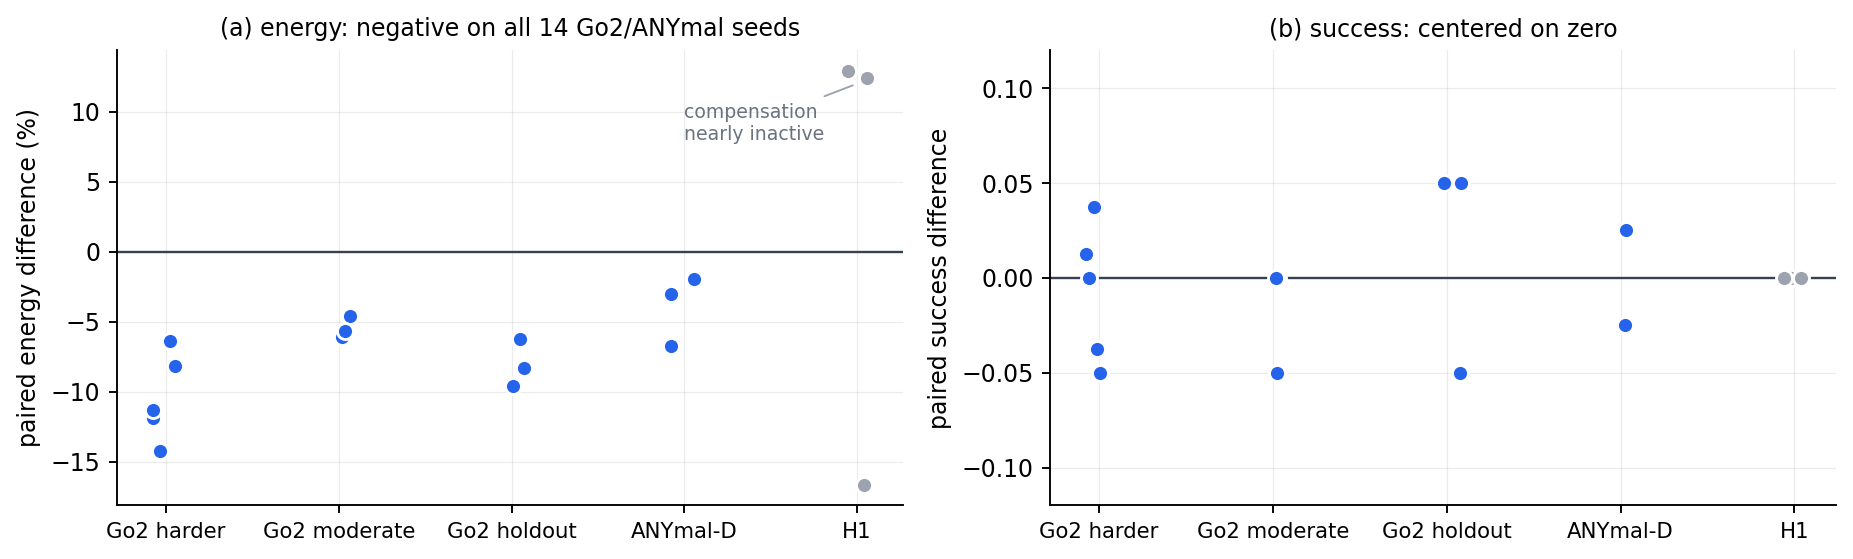
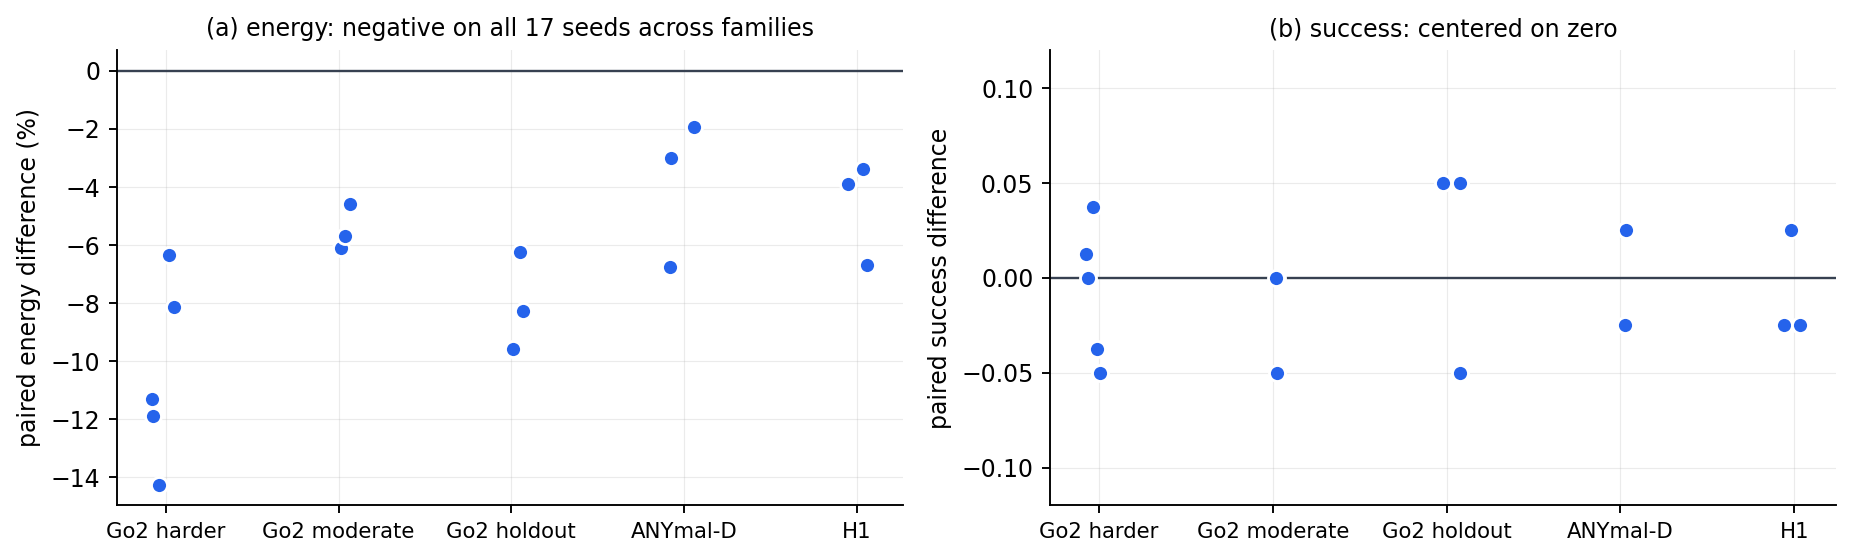
Update figure

diff --git a/paper/README.md b/paper/README.md
@@ -28,9 +28,13 @@ Every number in the paper was verified against raw result files (paths relative 
 | --- | --- |
 | Table 1 (Go2 response model) | `outputs/response_model/go2_command_response_model_summary.json`; world-frame row from the earlier world-z model run (recorded in the session logs; reproducible via `collect_response_dataset.py` without the relative-height patch) |
 | §4.3 aggregate + per-target table (8 targets, n=400) | `outputs/isaac_go2_rough_rsl_rl_skills_long/ff_v4_harder8_summary.json` (inputs: `ff_v4_harder8_10trials_seed70{1..5}_positions.json`) |
-| Fig. 1 (paired per-seed differences) | computed from `ff_v4_*` records across all families (session script `make_paired_figure.py`) |
+| Fig. 1 (method schematic) | hand-drawn via session script `make_method_figure.py` (no data) |
+| Fig. 2 (paired per-seed differences) | computed from `ff_v4_*` records across all families (session script `make_paired_figure.py`) |
 | Figs. 2-3 (trajectories, control example) | `ff_v4_harder8_10trials_seed701/704_positions.json` (example: seed 704, trial 9, target (2,0)) |
-| Coverage table (moderate/holdout/ANYmal/H1) | `ff_v4_moderate_summary.json`, `ff_v4_holdout_summary.json` (Go2 dir); `outputs/isaac_anymal_rough_ff/ff_v4_anymal_summary.json`; `outputs/isaac_h1_rough_rsl_rl_skills/ff_v4_h1_summary.json` |
+| Coverage table: Go2 moderate/holdout | `ff_v4_moderate_summary.json`, `ff_v4_holdout_summary.json` (Go2 dir) |
+| Coverage table: ANYmal-D (8 targets) | `outputs/isaac_anymal_rough_ff/ff_v4_anymal_summary.json` |
+| Coverage table: H1 (8 targets, −4.7%) | `outputs/isaac_h1_rough_rsl_rl_skills/ff_v7_h1solved_summary.json` (inputs: `ff_v7_h1solved_5trials_seed90{1..3}_positions.json`; config: energy margin 0.10 as Go2, posture floors tightened for humanoid: `--ff_min_height_fraction 0.93 --ff_rescue_height_fraction 0.90 --ff_current_height_fraction 0.96 --ff_max_height_drop 0.008`) |
+| H1 failure-mode diagnostic (loose quadruped gate → posture collapse) | `ff_v6_h1harder8_m10_5trials_seed90{1..3}` (margin 0.10, quadruped posture floors) |
 | §4.6 VGSR multi-seed aggregate | `outputs/isaac_go2_rough_rsl_rl_skills_long/go2_harder_strengthened_40trial_summary.json` |
 | §4.6 gate ablation | `go2_harder_gate_ablation_5trial_summary.json` |
 | §4.6 archive-size ablation | `rsl_archive_ablation_arch{500,2000,full}_harder_5trials_seed106_positions.json` |